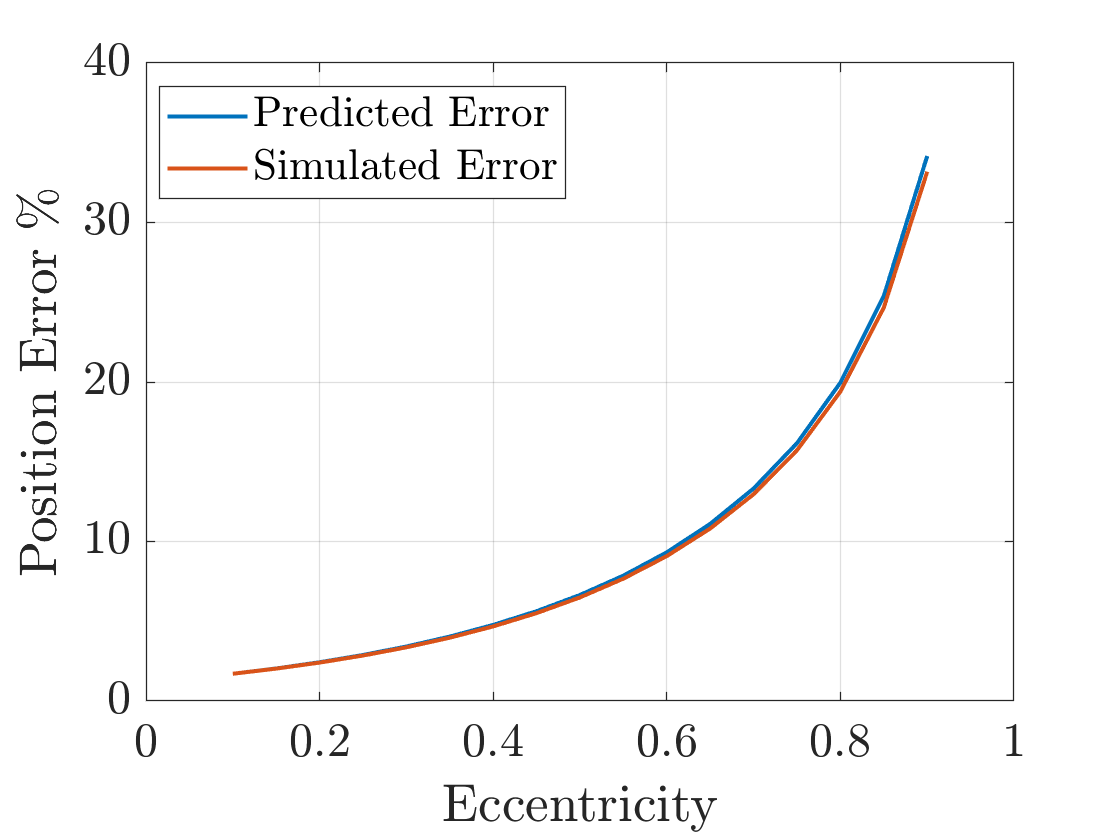
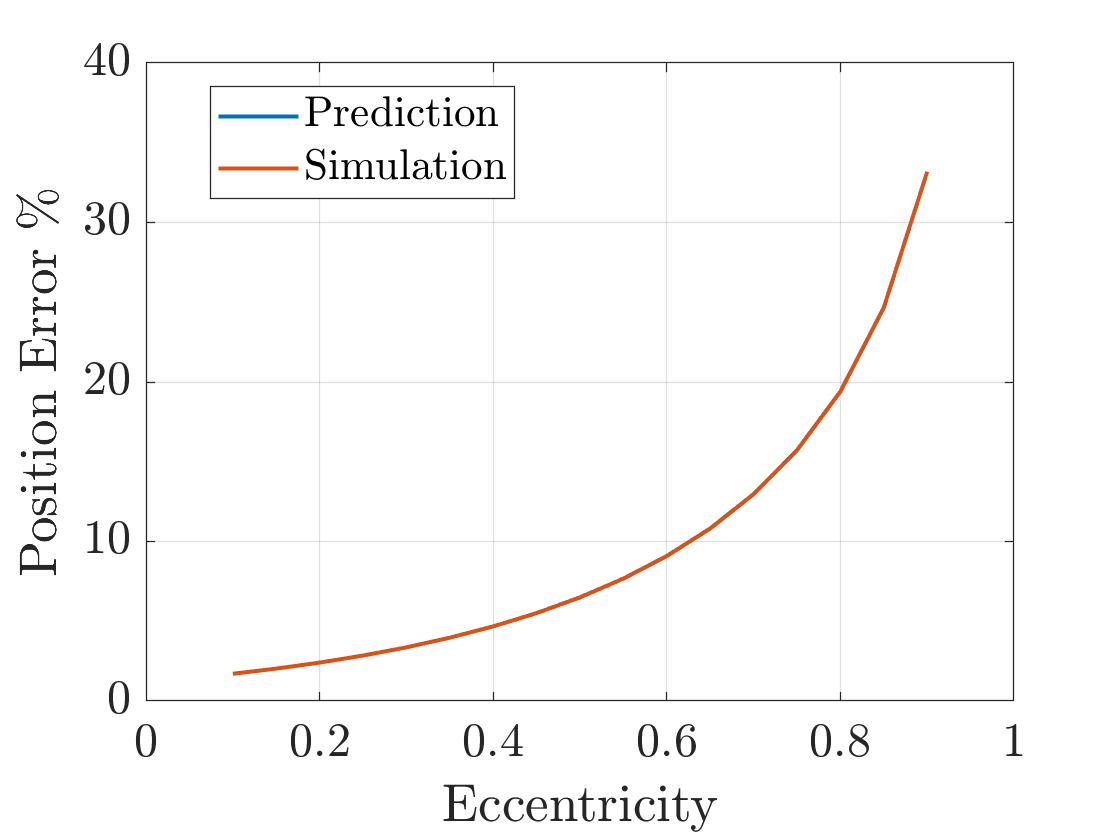
Update figures and code for spacecraft parameters

diff --git a/viod_dev/Misc Testing/functions/viod.m b/viod_dev/Misc Testing/functions/viod.m
@@ -1,0 +1,108 @@
+%% viod.m
+function [r] = viod(N,mu)
+%VIOD Solves the three-velocity initial orbit determination problem.
+%
+% Author:
+%   Tiger Hou
+%
+% Description:
+%   The spacecraft's orbit is calculated from three velocity vectors
+%   collected at different points in the orbit.
+%
+% Limitations:
+%   - Assumes the measurements are provided in order.
+%   - Assumes 50%+ of adjacent measurements are less than half an orbit
+%   away from each other
+%
+% Arguments:
+%   N:      [km/s]      N-by-3 matrix containing N velocity vectors
+%   mu:     [km^3/s^2]  gravitational parameter of central body
+%
+% Sources:
+%   - [1] Initial Orbit Determination from Three Velocity Vectors
+
+%%
+% preallocate matrices
+%   A: [unitless]  [2*N*(N-1)]-by-[2*N] sparse matrix of linear system
+%   B: [unitless]  [2*N*(N-1)]-by-1 matrix of linear system
+%   C: [unitless]  [N*(N-1)/2]-by-2 matrix of combinations of
+%                      two numbers selected from 1:N, non-repeating
+n = size(N,1);
+C = combnk(1:n,2);           % permutations of two velocity vectors i,j
+comb_n = size(C,1);
+% using sparse matrix to reduce memory consumption
+A = spalloc(comb_n*4,n*2,7*n*(n-1)); % LHS matrix of eq. 36, see line 6
+B = zeros(comb_n*4,1);               % RHS matrix of eq. 36, see line 6
+
+% use singular value decomposition to find orbit plane normal
+[~,~,V] = svd(N,0);
+k = V(:,end);
+
+% check if orbit plane normal is in the right direction
+% we assume more than half of the measurements are taken less than half an
+% orbit apart from its adjacent measurements.
+kEst = zeros(1,3);
+for i = 1:size(N,1)-1
+    kEst = kEst + cross(N(i,:),N(i+1,:)) / norm(cross(N(i,:),N(i+1,:)));
+end
+if dot(k,kEst') < 0
+    k = -k;
+end
+
+reps = size(N,1);
+u = zeros(size(N')); % [3xN] matrix of u values defined in [1] eq.11
+w = zeros(size(N')); % [3xN] matrix of w values defined in [1] eq.12
+z = zeros(size(N')); % [3xN] matrix of z values defined in [1] eq.21
+for i = 1:reps
+    u(:,i) = N(i,:)' / norm(N(i,:));
+    w(:,i) = cross(u(:,i),k) / norm(cross(u(:,i),k));
+    z(:,i) = w(:,i) / norm(N(i,:));
+end
+
+nperms = size(C,1);
+for i = 1:nperms
+    % insert z and u values in top 3/4 of LHS matrix
+    A((i-1)*3+1:i*3,2*C(i,1)-1) =  z(:,C(i,1));
+    A((i-1)*3+1:i*3,2*C(i,1))   =  u(:,C(i,1));
+    A((i-1)*3+1:i*3,2*C(i,2)-1) = -z(:,C(i,2));
+    A((i-1)*3+1:i*3,2*C(i,2))   = -u(:,C(i,2));
+    % insert 1 and -1 in bottom 1/4 of LHS matrix
+    A((i-1)*3+nperms*3+1,2*C(i,1)-1) =  1;
+    A((i-1)*3+nperms*3+1,2*C(i,2)-1) = -1;
+    % insert vectors in top 3/4 of RHS matrix
+    B((i-1)*3+1:i*3) = norm(N(C(i,1),:))*w(:,C(i,1)) - ...
+                       norm(N(C(i,2),:))*w(:,C(i,2));
+    % insert vectors in bottom 1/4 of RHS matrix
+    B((i-1)*3+nperms*3+1) = norm(N(C(i,1),:))^2/2 - ...
+                            norm(N(C(i,2),:))^2/2;
+end
+% solve the linear system
+g = A\B;
+
+a = zeros(1,reps);
+b = zeros(1,reps);
+
+a(:) = g(1:2:end);
+b(:) = g(2:2:end);
+
+r_norm = mu ./ a;
+
+h = zeros(1,reps);
+for i = 1:reps
+    h(i) = sqrt( r_norm(i)^2*dot(N(i,:),N(i,:)) / ...
+            (1 + dot(N(i,:),N(i,:))*(b(i)/a(i))^2) );
+end
+h = mean(h);
+
+rw = zeros(size(N'));
+ru = zeros(size(N'));
+r  = zeros(size(N'));
+
+for i = 1:reps
+    rw(:,i) = h*z(:,i);
+    ru(:,i) = b(i)*h*r_norm(i)/mu*u(:,i);
+    r(:,i)  = rw(:,i) + ru(:,i);
+end
+r = r';
+        
+end %viod.m

diff --git a/viod_dev/Misc Testing/hodographTests/obsvErrorSim.m b/viod_dev/Misc Testing/hodographTests/obsvErrorSim.m
@@ -1,20 +1,20 @@
-close all
+% close all
 clear;clc
 
 addpath('..\functions')
 
 mu = 1;
 a = 1.56e5;
-e = 0.5;
-i = deg2rad(45);
+e = 0.1;
+i = deg2rad(0);
 o = deg2rad(0);
 w = deg2rad(0);
-f = deg2rad(160);
+f = deg2rad(0);
 
 orbitParams = [a,e,i,o,w,f];
 
 noise = 1e-6;
-dur = 0.009;
+dur = 0.02;
 dur = dur * 2*pi;
 
 disp(['df span: ' num2str(rad2deg(dm2df(f,dur,e)))])
@@ -23,11 +23,12 @@ E0 = 2 * atan(sqrt((1-e)/(1+e))*tan(f/2));
 M0 = E0 - e*sin(E0);
 M = M0 + dur;
 
-numSims = 2000;
-obsVect = 3:3:100;
+numSims = 3000;
+obsVect = 3:2:35;
 selObsv = 1;
 
 errVect = nan(numSims,length(obsVect));
+svdErrVect = nan(numSims,length(obsVect));
 
 for i = 1:length(obsVect)
     numObsv = obsVect(i);
@@ -37,33 +38,55 @@ for i = 1:length(obsVect)
     fvect = 2 * atan(sqrt((1+e)/(1-e))*tan(Evect/2));
     fvect = mod(fvect,2*pi);
     fend = fvect(end);
-    df = fend-f;
-    df = mod(df,2*pi);
     orbitParams(6) = fvect(selObsv);
     rRef = Get_Orb_Vects(orbitParams,mu);
+    
+    % get ground truth velocity
     for j = 1:numObsv
         orbitParams(6) = fvect(j);
         [~,v(j,:)] = Get_Orb_Vects(orbitParams,mu);
     end
     ncube = randn(numObsv,3,numSims) * noise;
+    
+    % Monte Carlo
     for s = 1:numSims
         nvect = ncube(:,:,s);
         r = hodo(v+nvect,mu);
         r = r(selObsv,:)';
         errVect(s,i) = norm(r-rRef) / norm(rRef) * 100;
-%         if errVect(s,i) > 2000
-%             disp([num2str(i) '.' num2str(s) ' large error warning: ' ...
-%                   num2str(errVect(s,i)) '%'])
-%         end
+        
+        % test svd
+        [~,~,V] = svd(v+nvect,0);
+        k = V(:,end);
+        if k'*[0;0;1]<0
+            k = -k;
+        end
+        svdErrVect(s,i) = norm(k-[0;0;1]);
     end
+    
 end
+
+%% plotting
+
+xVar = obsVect;
+yRef = mean(errVect);
+yVar = mean(svdErrVect);
+scaling = 1 / (max(yVar)-min(yVar)) * (max(yRef)-min(yRef));
+yVar = yVar * scaling;
+offset = - min(yVar) + min(yRef);
+yVar = yVar + offset;
 
 figure(1)
 hold on
-plot(obsVect,mean(errVect),'LineWidth',1.5)
+% plot(xVar,yVar,'--','LineWidth',1.5,'HandleVisibility','off')
+% plot(xVar,yRef,'LineWidth',1.5,'DisplayName',['Dur = ' num2str(dur*100,2) '\%'])
+plot(xVar,yVar,'LineWidth',1.5)
+plot(xVar,yRef,'LineWidth',1.5)
 xlabel('Number of Observations')
 ylabel('Error Avg. \%')
-set(gca,'FontSize',16)
+legend('Prediction','Simulation','Location','Best')
+legend
+set(gca,'FontSize',18)
 grid on
 hold off
 

diff --git a/viod_dev/Misc Testing/hodographTests/durErrorEstimator.m b/viod_dev/Misc Testing/hodographTests/durErrorEstimator.m
@@ -4,31 +4,95 @@ clear;clc
 addpath('..\functions')
 
 mu = 1;
-a = 1;
+a = 1.56e5;
 e = 0.5;
-f0 = 0;
+i = deg2rad(0);
+o = deg2rad(0);
+w = deg2rad(0);
+f = deg2rad(0);
+    
+orbitParams = [a,e,i,o,w,f];
 
-numObsv = 3;
+noise = 1e-6;
 
-durVect = [0.01 0.04 0.8];
+numObsv = 30;
+
+numSims = 3000;
+durVect = 0.05:0.05:0.9;
 durVect = durVect * 2*pi;
+selObsv = 1;
 
-errVect = nan(size(durVect));
+errVect = nan(numSims,length(durVect));
+dfVect = nan(size(durVect));
+vMagVect = nan(1,length(durVect));
+svdErrVect = nan(numSims,length(durVect));
 
 for i = 1:length(durVect)
     dur = durVect(i);
-    E0 = 2 * atan(sqrt((1-e)/(1+e))*tan(f0/2));
+    E0 = 2 * atan(sqrt((1-e)/(1+e))*tan(f/2));
     M0 = E0 - e*sin(E0);
     M = M0 + dur;
+    v = nan(numObsv,3);
     Mvect = linspace(M0,M,numObsv);
     Evect = kepler(Mvect,e);
     fvect = 2 * atan(sqrt((1+e)/(1-e))*tan(Evect/2));
     fvect = mod(fvect,2*pi);
-    f = fvect(end);
-    df = f-f0;
-    df = mod(df,2*pi);
-    error = 1 / df^2;
-    errVect(i) = error;
+    fend = fvect(end);
+    
+    if fend < f
+        fend = fend + 2*pi;
+    end
+    dfVect(i) = fend-f;
+
+    for j = 1:numObsv
+        orbitParams(6) = fvect(j);
+        [~,v(j,:)] = Get_Orb_Vects(orbitParams,mu);
+    end
+    
+    for s = 1:numSims
+        nvect = randn(numObsv,3) * noise;
+        orbitParams(6) = fvect(selObsv);
+        rRef = Get_Orb_Vects(orbitParams,mu);
+        r = hodo(v+nvect,mu);
+        r = r(selObsv,:)';
+        errVect(s,i) = norm(r-rRef) / norm(rRef) * 100;
+        
+        % test svd
+        [~,~,V] = svd(v+nvect,0);
+        k = V(:,end);
+        if k'*[0;0;1]<0
+            k = -k;
+        end
+        svdErrVect(s,i) = norm(k-[0;0;1]);
+    end
+    
+    vMagVect(i) = min(vecnorm(v,2,2));
+    
 end
 
-errVect(1:end-1) ./ errVect(2:end)
+%%
+figure(1)
+hold on
+
+xVar = rad2deg(durVect);
+yRef = mean(errVect);
+
+yVar = mean(svdErrVect)./dfVect.^2;
+% yVar = 1 ./ dfVect .^2;
+scaling = 1 / (max(yVar)-min(yVar)) * (max(yRef)-min(yRef));
+yVar = yVar * scaling;
+offset = - min(yVar) + min(yRef);
+yVar = yVar + offset;
+
+disp(['Scaling = ' num2str(scaling)])
+disp(['Offset  = ' num2str(offset)])
+
+plot(xVar,yVar,'LineWidth',1.5)
+plot(xVar,yRef,'LineWidth',1.5)
+
+xlabel('Mean Anomaly Span, degrees')
+ylabel('Error Avg. \%')
+legend('Prediction','Simulation','Location','Best')
+set(gca,'FontSize',18)
+grid on
+hold off

diff --git a/viod_dev/Misc Testing/hodographTests/taErrorEstimator.m b/viod_dev/Misc Testing/hodographTests/taErrorEstimator.m
@@ -69,14 +69,23 @@ for i = 1:length(TA)
     dfVect(i) = df;
 end
 
-disp(['Scale factor = ' num2str(1/errVect(1)*errDat(1))])
+xVar = TA;
+yRef = errDat;
+yVar = errVect;
+scaling = 1 / (max(errVect)-min(errVect)) * (max(errDat)-min(errDat));
+yVar = yVar * scaling;
+offset  = - min(yVar) + min(yRef);
+yVar = yVar + offset;
+
+disp(['Scaling = ' num2str(scaling)])
+disp(['Offset  = ' num2str(offset)])
 
 figure;
-plot(TA,errVect/errVect(1)*errDat(1)*100,'LineWidth',1.5)
+plot(TA,yVar*100,'LineWidth',1.5)
 hold on
-plot(TA,errDat*100,'LineWidth',1.5)
+plot(TA,yRef*100,'LineWidth',1.5)
 hold off
-legend('Predicted Error','Simulated Error','Location','Best')
+legend('Prediction','Simulation','Location','Best')
 xlabel('True Anomaly')
 ylabel('Position Error \%')
 set(gca,'FontSize',18)

diff --git a/viod_dev/Misc Testing/hodographTests/eccErrorEstimator.m b/viod_dev/Misc Testing/hodographTests/eccErrorEstimator.m
@@ -77,12 +77,23 @@ for i = 1:length(eccs)
     errVect(i) = error;
 end
 
+xVar = eccs;
+yRef = errDat;
+yVar = errVect;
+scaling = 1 / (max(errVect)-min(errVect)) * (max(errDat)-min(errDat));
+yVar = yVar * scaling;
+offset  = - min(yVar) + min(yRef);
+yVar = yVar + offset;
+
+disp(['Scaling = ' num2str(scaling)])
+disp(['Offset  = ' num2str(offset)])
+
 figure;
-plot(eccs,errVect/errVect(1)*errDat(1)*100,'LineWidth',1.5)
+plot(eccs,yVar*100,'LineWidth',1.5)
 hold on
-plot(eccs,errDat*100,'LineWidth',1.5)
+plot(eccs,yRef*100,'LineWidth',1.5)
 hold off
-legend('Predicted Error','Simulated Error','Location','Best')
+legend('Prediction','Simulation','Location','Best')
 xlabel('Eccentricity')
 ylabel('Position Error \%')
 set(gca,'FontSize',18)

diff --git a/journal/fcns_od/hodo.m b/journal/fcns_od/hodo.m
@@ -31,7 +31,7 @@ k = V(:,end);
 % orbit apart from its adjacent measurements.
 kEst = zeros(1,3);
 for i = 1:size(N,1)-1
-    kEst = kEst + cross(N(i,:),N(i+1,:));
+    kEst = kEst + cross(N(i,:),N(i+1,:)) / norm(cross(N(i,:),N(i+1,:)));
 end
 if dot(k,kEst') < 0
     k = -k;
